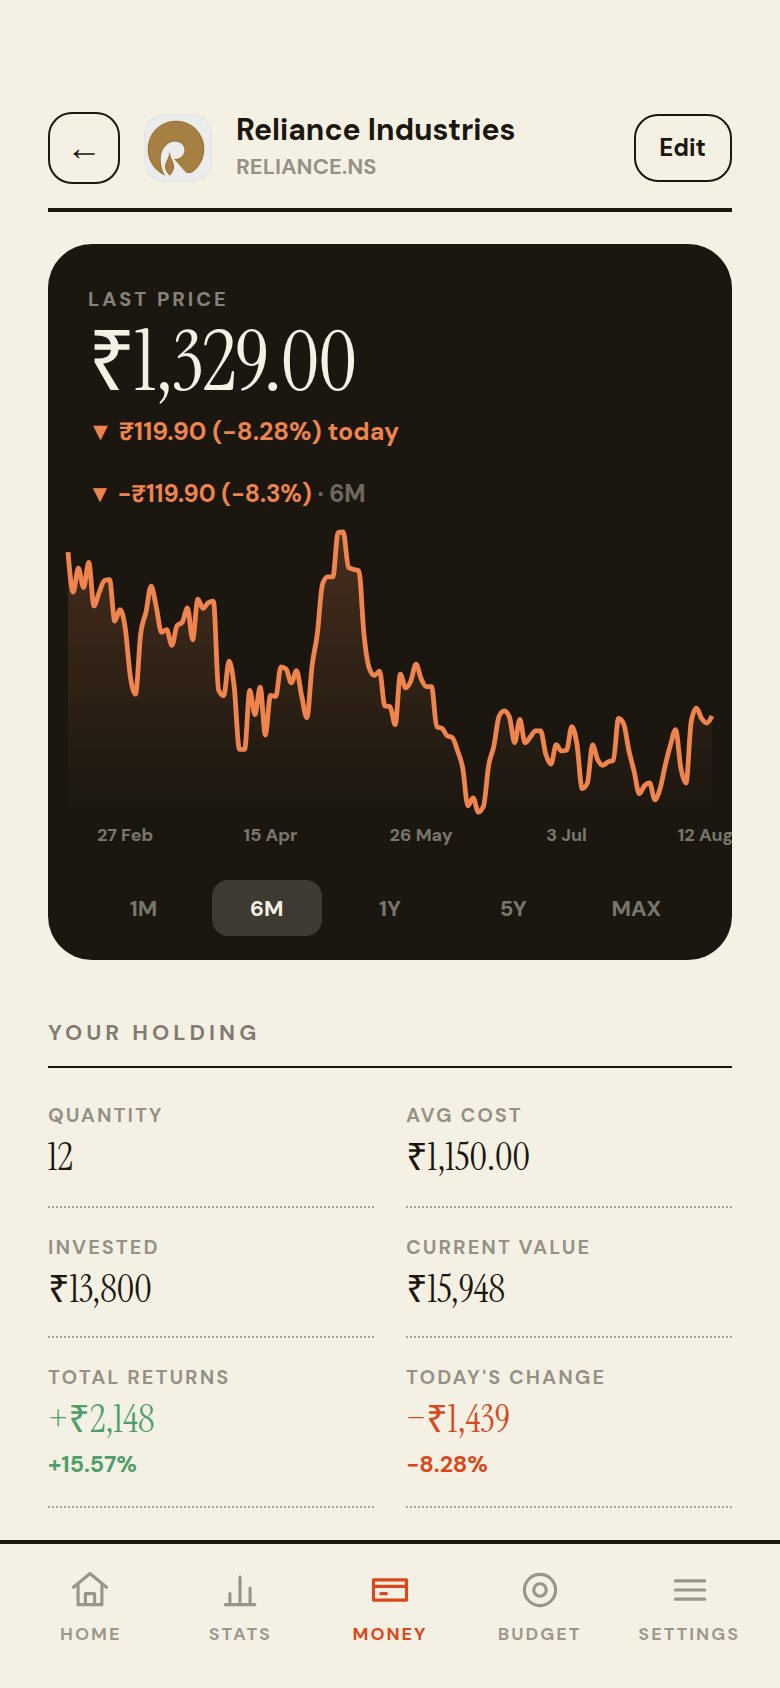
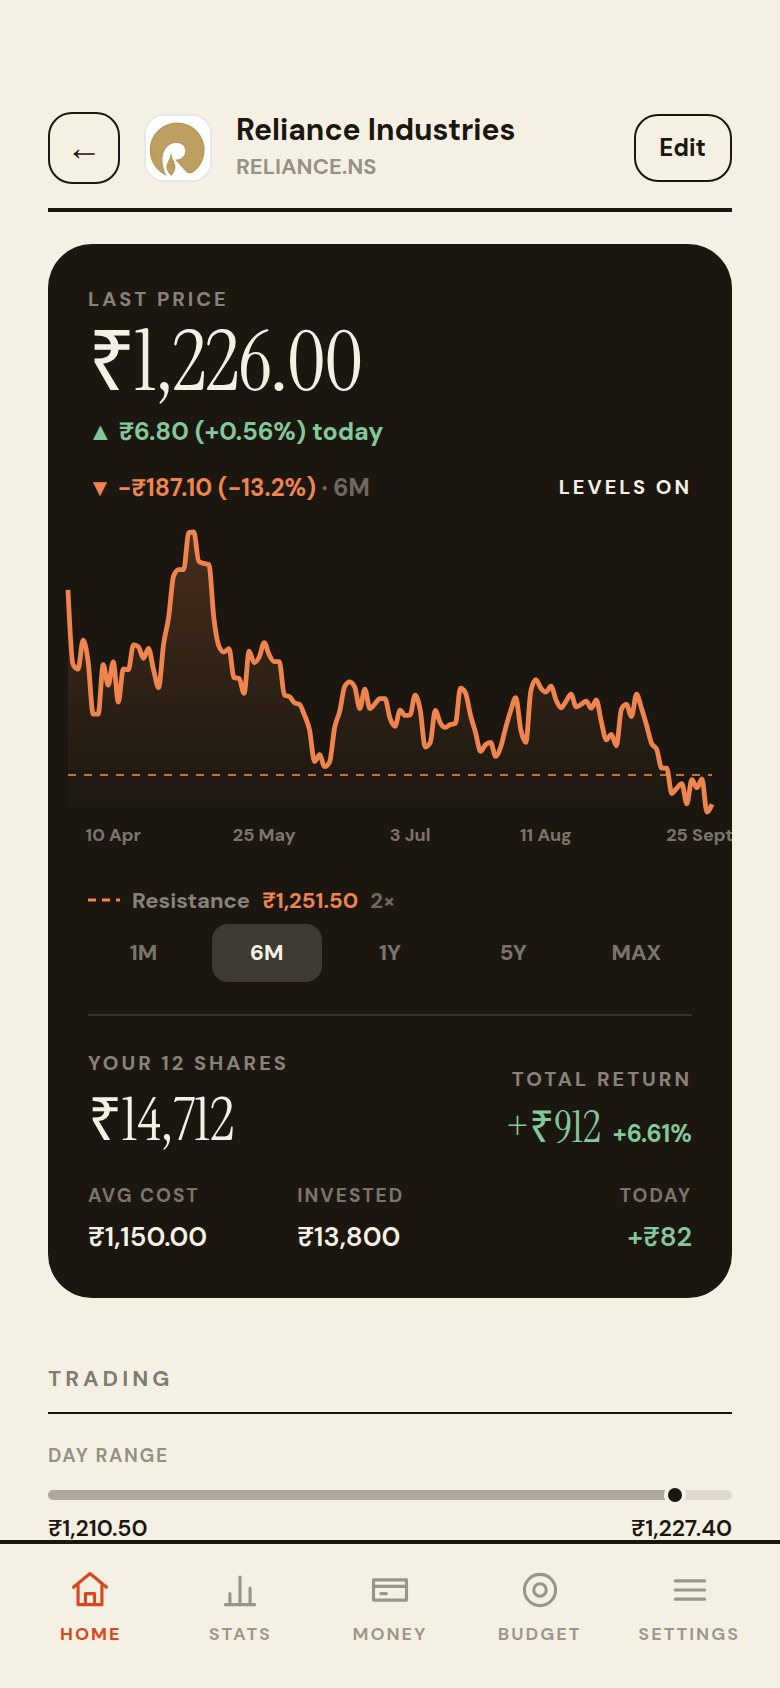
docs: holding detail screen in README and tour

diff --git a/src/components/onboarding/WelcomeTour.jsx b/src/components/onboarding/WelcomeTour.jsx
@@ -14,7 +14,7 @@ const SLIDES = [
   { img: homeImg,      accent: '#D9481C', title: 'Everything at a glance',  body: "Your month's spend, budget, portfolio and dues — all on one home screen." },
   { img: askImg,       accent: '#6C5FB0', title: 'Ask Finances anything',  body: 'Ask about your spending, budgets or how the app works — and get instant monthly recaps.' },
   { img: portfolioImg, accent: '#4E9E6A', title: 'Track your investments',  body: 'Stocks, mutual funds and SIPs with live prices, returns and allocation.' },
-  { img: detailImg,    accent: '#B5761F', title: 'Deep-dive any holding',   body: 'Tap a stock or fund for its live chart, fundamentals, returns and latest news.' },
+  { img: detailImg,    accent: '#B5761F', title: 'Deep-dive any holding',   body: 'Tap a stock or fund for its live chart, key levels, fundamentals, analyst view and latest news.' },
   { img: analysisImg,  accent: '#1B1710', title: 'A research note on demand', body: 'One tap weighs the sector, real competitors, quarterly results and news — and tracks how past calls played out.' },
   { img: moneyImg,     accent: '#6C5FB0', title: 'Your whole net worth',    body: 'Metals, FDs, loans and investments in one number — with a trend that grows.' },
   { img: breakdownImg, accent: '#C9972E', title: 'Where your money goes',   body: 'A clear category breakdown for every month.' },

diff --git a/CLAUDE.md b/CLAUDE.md
@@ -85,11 +85,11 @@ Same rule as the chat: **figures on screen come from `context`, never from the m
 
 **Chart support/resistance (no AI):** `HoldingDetail.jsx` draws one support and one resistance on the price chart for **1M · 6M · 1Y · 5Y** (not MAX), each computed from *that range's own bars* in `stockCache` via `keyLevels` (`technicals.js`) with per-range `LEVEL_CFG` (pivot width `k`, max distance from price). `levels()` clusters swing highs and lows together (role reversal), with an ATR-scaled merge tolerance, and reports touches; `keyLevels` prefers a level tested 2+ times, then the nearest. The AI report's levels use the same function on 1Y daily bars, so the chart's 1Y view matches the report. Values are printed in a key under the chart, never on it — the nearest levels always sit beside the latest price at the right edge, so an in-chart label lands on the price line. Toggle persisted as the `chartLevels` setting (on by default).
 
-**"Today" on the holding screen:** for stocks, `prevClose` comes from the daily quote in the price cache (or the previous 1Y bar), **not** `stats.prevClose` — `stats` is the selected range's chart meta, whose previous close is the one before the whole range, so "today" used to change as you tapped range pills.
+**"Today" on the holding screen:** for stocks, `prevClose` must come from the same source as the price. With a live chart price it is the previous bar of the live 1Y series; the cached daily quote is used only when the price itself came from the cache, or when it agrees with the live price (within 2%). Never `stats.prevClose` — `stats` is the selected range's chart meta, whose previous close is the one before the whole range. A stale cached quote (sample data left in `priceCache`) once showed Infosys "−37% today".
 
 **Persistence (`src/services/analysisStore.js`):** one `settings` key, `stockAnalyses` → `{ [symbol]: { latest, history } }` (no DB bump). `latest` is the full report plus a slim `meta` (price, position, source counts) — the raw peer/driver price series are deliberately not stored. It's shown for **7 days** (`REPORT_TTL_MS`), then the card falls back to the Analyse button with "Last analysed …". `history` is the **track record** ("Past calls"): `{ at, price, score, verdict, headline }`, newest first, capped at 24, and a same-day refresh replaces that day's entry. The card compares each call's price with today's; calls under a day old show "today" instead of a move.
 
-`scripts/` holds dev-only Playwright probes: `probe-analysis.mjs <SYMBOL> [name]` prints the full assembled context (no AI), `probe-full.mjs <SYMBOL>` also calls the Worker and prints the raw reply, `shot-analysis.mjs <out.png>` screenshots the rendered report with a stubbed model reply. Run them from the repo root with `npm run dev` up (playwright must resolve from the project's `node_modules`).
+`scripts/` holds dev-only Playwright probes: `probe-analysis.mjs <SYMBOL> [name]` prints the full assembled context (no AI), `probe-full.mjs <SYMBOL>` also calls the Worker and prints the raw reply, `shot-analysis.mjs <out.png>` screenshots the rendered report with a stubbed model reply, and `shot-detail.mjs <full.png> [tour.jpg] [frame.png]` captures the holding screen (Reliance, live data) plus the welcome-tour slide and the phone-framed `docs/frames/detail.png`. Run them from the repo root with `npm run dev` up (playwright must resolve from the project's `node_modules`).
 
 ### Net worth (`src/utils/networth.js`)
 `computeNetWorth({holdings, prices, assets, udhaar, metalRates})` is the single source of truth. Assets are dynamic-valued: metals by live rate × grams × fineness, FDs by quarterly compounding, loans by amortization — see `assetValue`. A daily net-worth snapshot is written to `networth_snaps` by an effect in `AppContext` (one row per calendar day, keyed by date); the Money tab's trend chart reads these. Snapshotting is skipped while demo data is loaded so it can't pollute real history.

diff --git a/README.md b/README.md
@@ -40,7 +40,7 @@ An offline-first personal finance app: track spending, budgets, investments, gol
   <tr>
     <td align="center"><img src="docs/frames/ask.png" width="215"/><br/><b>Ask Finances 🪄</b><br/><sub>AI: your money & the app</sub></td>
     <td align="center"><img src="docs/frames/analysis.png" width="215"/><br/><b>Stock analysis 🔬</b><br/><sub>Sector, peers, results & news</sub></td>
-    <td></td>
+    <td align="center"><img src="docs/frames/detail.png" width="215"/><br/><b>Holding detail</b><br/><sub>Chart, levels, your position</sub></td>
   </tr>
 </table>
 </div>
@@ -63,6 +63,7 @@ An offline-first personal finance app: track spending, budgets, investments, gol
 
 ### 📈 Grow
 - **Portfolio** — add stocks & mutual funds, **live prices** (Yahoo Finance + AMFI NAV), weighted-average buy price, allocation split
+- **Holding detail** — live chart (1M · 6M · 1Y · 5Y · MAX) with automatic support & resistance per timeframe, your position, day & 52-week range bars, valuation, financials, and the **analyst view**: consensus, buy/hold/sell split and average target with upside
 - **Recurring SIPs** that auto-add units each month at that month's NAV
 - **Net worth hub** — one number for everything you own and owe, with a **stock-app-style trend chart** (1M · 6M · 1Y · 5Y · ALL)
 - **Live-valued assets**: gold / silver / platinum by weight, **auto-compounding FDs**, **amortizing loans**
